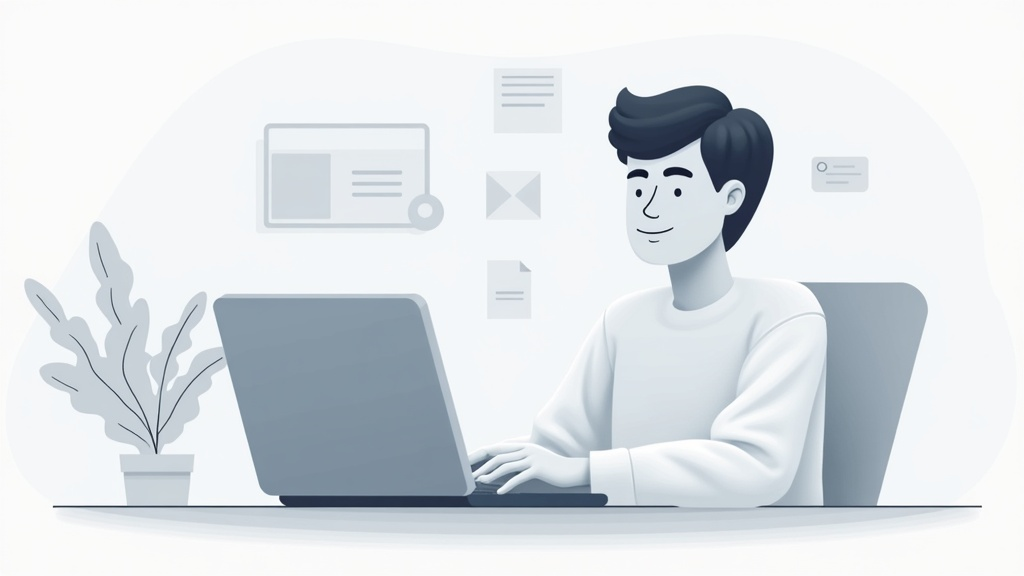
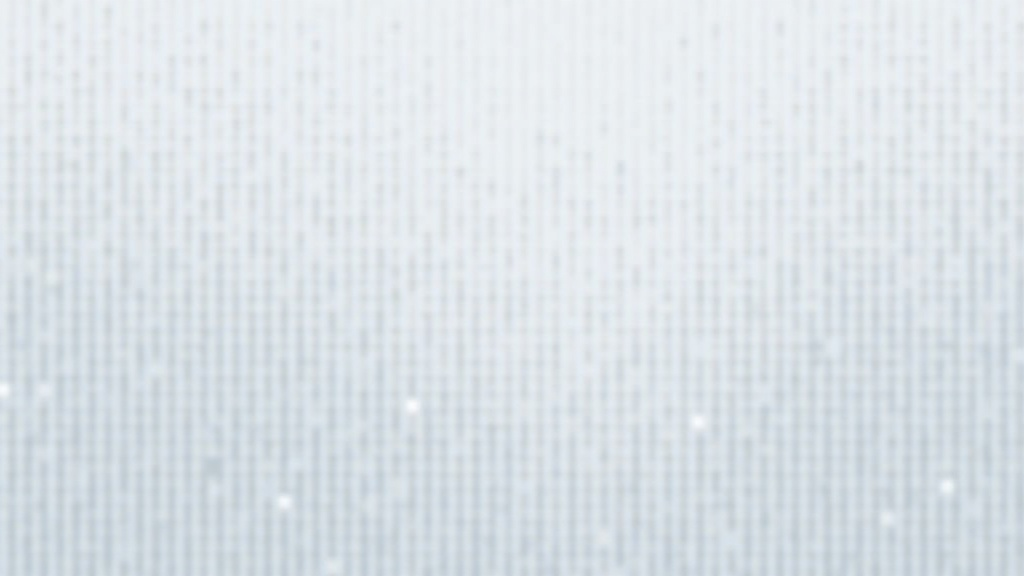
Restore blog surfaces and publish first post
- Re-add Blog link in nav and Writing section on homepage
- Publish "Why this site exists: Becoming a full-time project manager"
- Remove placeholder hello-world post
- Drop generated header image reference from frontmatter

diff --git a/src/app/page.tsx b/src/app/page.tsx
@@ -1,6 +1,8 @@
 import Link from "next/link";
 import { site } from "@/content/site";
 import { projects, getFeaturedProjects, getActiveProjects } from "@/content/projects";
+import { getRecentPosts } from "@/lib/posts";
+import { PostCard } from "@/components/PostCard";
 import { Arrow } from "@/components/Arrow";
 import { FeaturedCarousel } from "@/components/FeaturedCarousel";
 import { NowWorkingOn } from "@/components/NowWorkingOn";
@@ -12,6 +14,7 @@ export default function HomePage() {
     ...projects.filter((p) => !featuredSlugs.has(p.slug)),
   ];
   const activeProjects = getActiveProjects();
+  const recentPosts = getRecentPosts(3);
 
   return (
     <div className="mx-auto max-w-3xl px-6 py-16">
@@ -57,6 +60,29 @@ export default function HomePage() {
             </span>
           </div>
           <NowWorkingOn projects={activeProjects} />
+        </section>
+      )}
+
+      {recentPosts.length > 0 && (
+        <section className="anim-fade-up anim-delay-3">
+          <div className="mb-4 flex items-baseline justify-between">
+            <h2 className="text-xl font-semibold tracking-tight">Writing</h2>
+            <Link
+              href="/blog"
+              className="group inline-flex items-center gap-1.5 text-sm text-neutral-500 transition hover:text-neutral-900 dark:hover:text-neutral-100"
+            >
+              All posts
+              <Arrow
+                size={14}
+                className="transition-transform group-hover:translate-x-1"
+              />
+            </Link>
+          </div>
+          <div>
+            {recentPosts.map((post) => (
+              <PostCard key={post.slug} post={post} />
+            ))}
+          </div>
         </section>
       )}
     </div>

diff --git a/src/components/Nav.tsx b/src/components/Nav.tsx
@@ -13,6 +13,11 @@ export function Nav() {
         </Link>
         <ul className="flex items-center gap-6 text-sm">
           <li>
+            <Link href="/blog" className="nav-link">
+              Blog
+            </Link>
+          </li>
+          <li>
             <Link href="/projects" className="nav-link">
               Projects
             </Link>

diff --git a/src/content/blog/building-this-blog.md b/src/content/blog/building-this-blog.md
@@ -1,12 +1,11 @@
 ---
 title: 'Why this site exists:  Becoming a full-time project manager'
-date: '2026-04-09'
+date: '2026-04-23'
 description: What do you do when AI lets you start ten projects but finish none of them?
 tags:
   - ai
   - claude
   - blogging
-image: /blog/building-this-blog/header.png?t=1777925165547
 ---
                                          
   This is the first post on this site. I think it wouldn't be appropriate to write about anything other than the page itself, so here we are.                           
